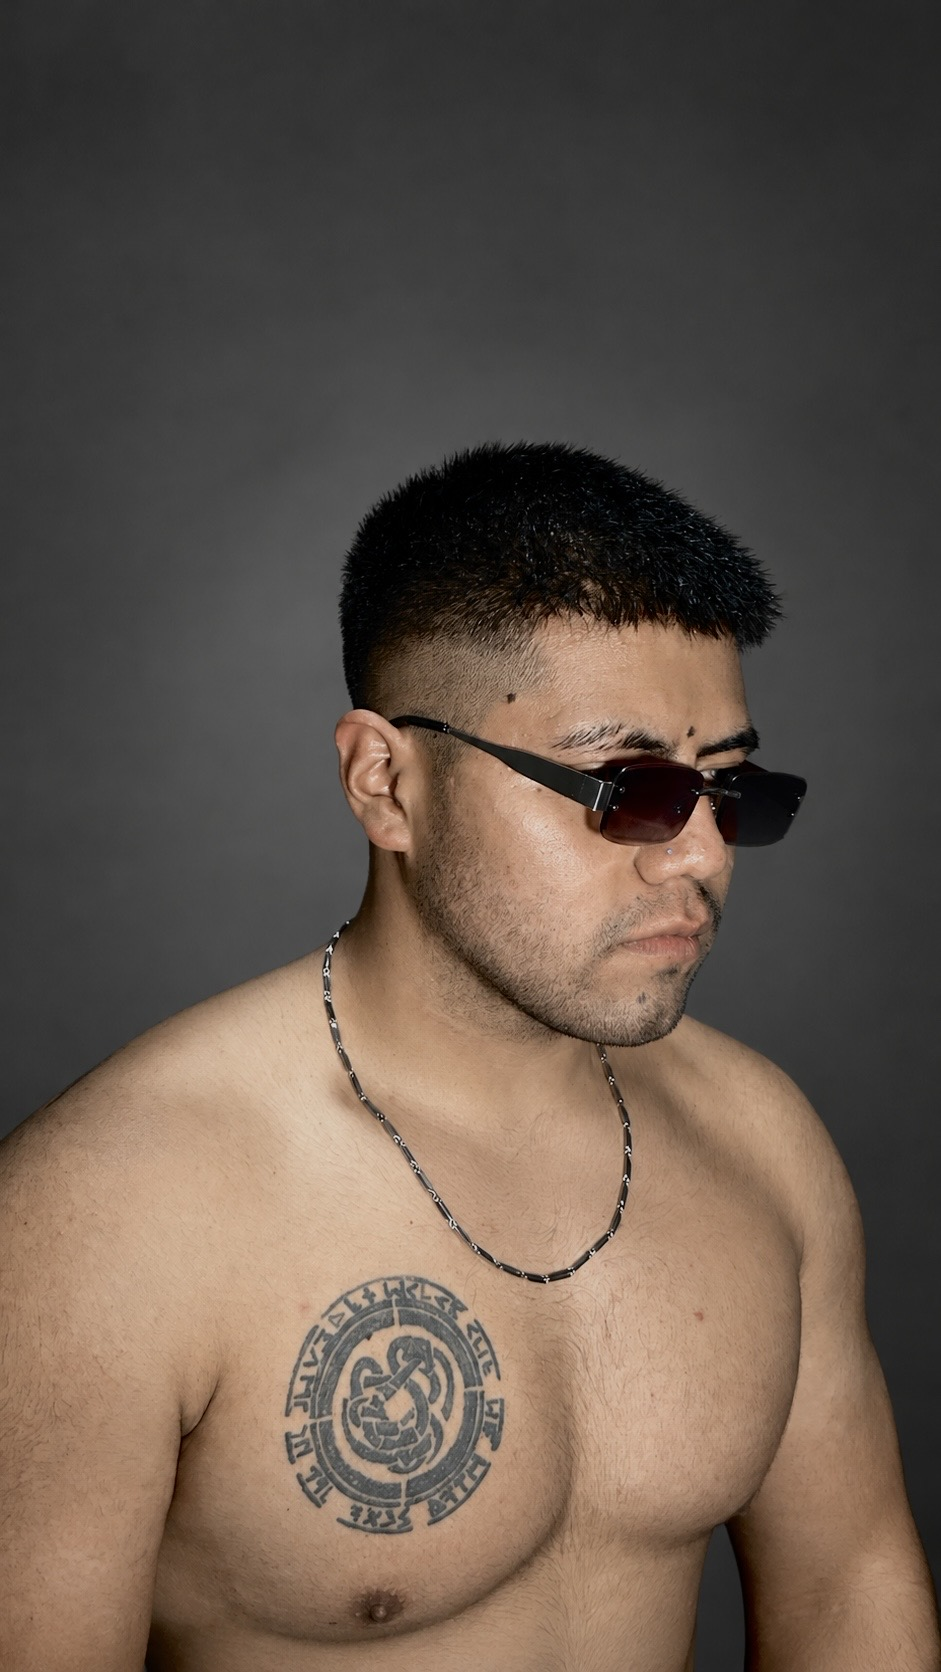
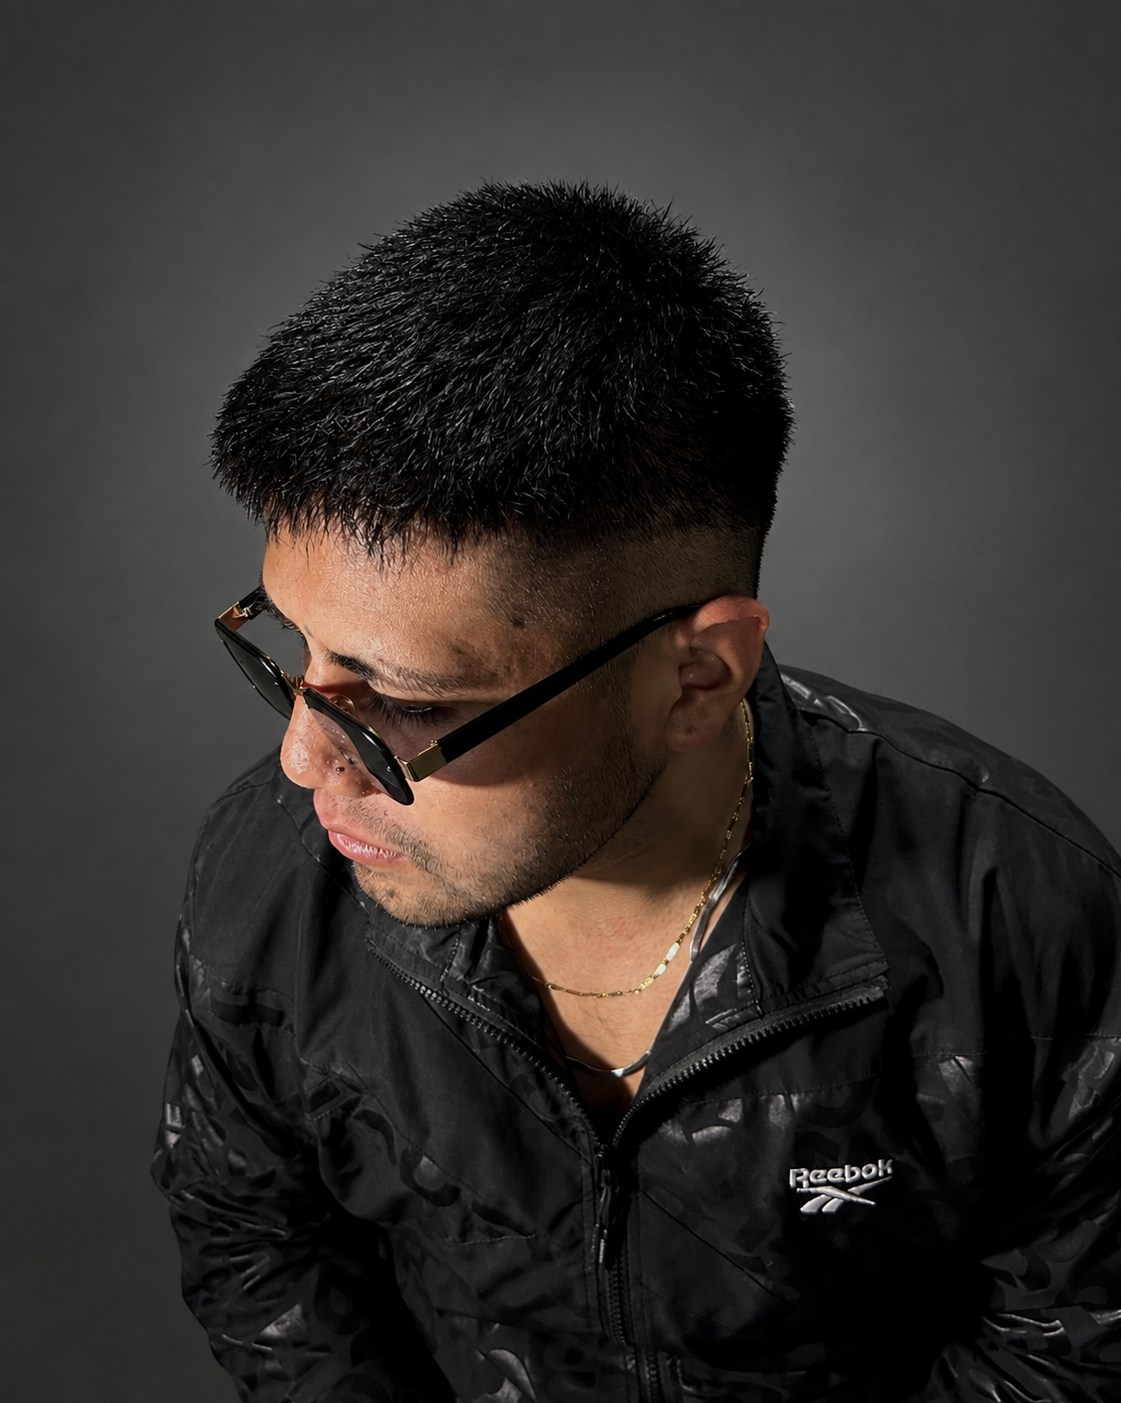
Add files via upload

diff --git a/index.html b/index.html
@@ -358,8 +358,8 @@ Gym &bull; IA &bull; Contenido
 </p>
 
 <div class="challenge fade-in d3">
-<div class="challenge-day">D&iacute;a <span id="challenge-current">11</span> de 90</div>
-<div class="challenge-bar"><div class="challenge-fill" id="challenge-fill" style="width:12.2%"></div></div>
+<div class="challenge-day">D&iacute;a <span id="challenge-current">16</span> de 90</div>
+<div class="challenge-bar"><div class="challenge-fill" id="challenge-fill" style="width:17.8%"></div></div>
 <p class="challenge-quote">Nadie apost&oacute; por m&iacute;, ni yo &#128520;</p>
 </div>
 
@@ -419,7 +419,7 @@ referrerpolicy="strict-origin-when-cross-origin"></iframe>
 
 <script>
 (function(){
-var START="2026-09-08",TOTAL=90;
+var START="2026-09-09",TOTAL=90;
 var today=new Intl.DateTimeFormat("en-CA",{timeZone:"America/Mexico_City"}).format(new Date());
 function ms(s){var p=s.split("-");return Date.UTC(+p[0],+p[1]-1,+p[2]);}
 var day=Math.floor((ms(today)-ms(START))/86400000)+1;
